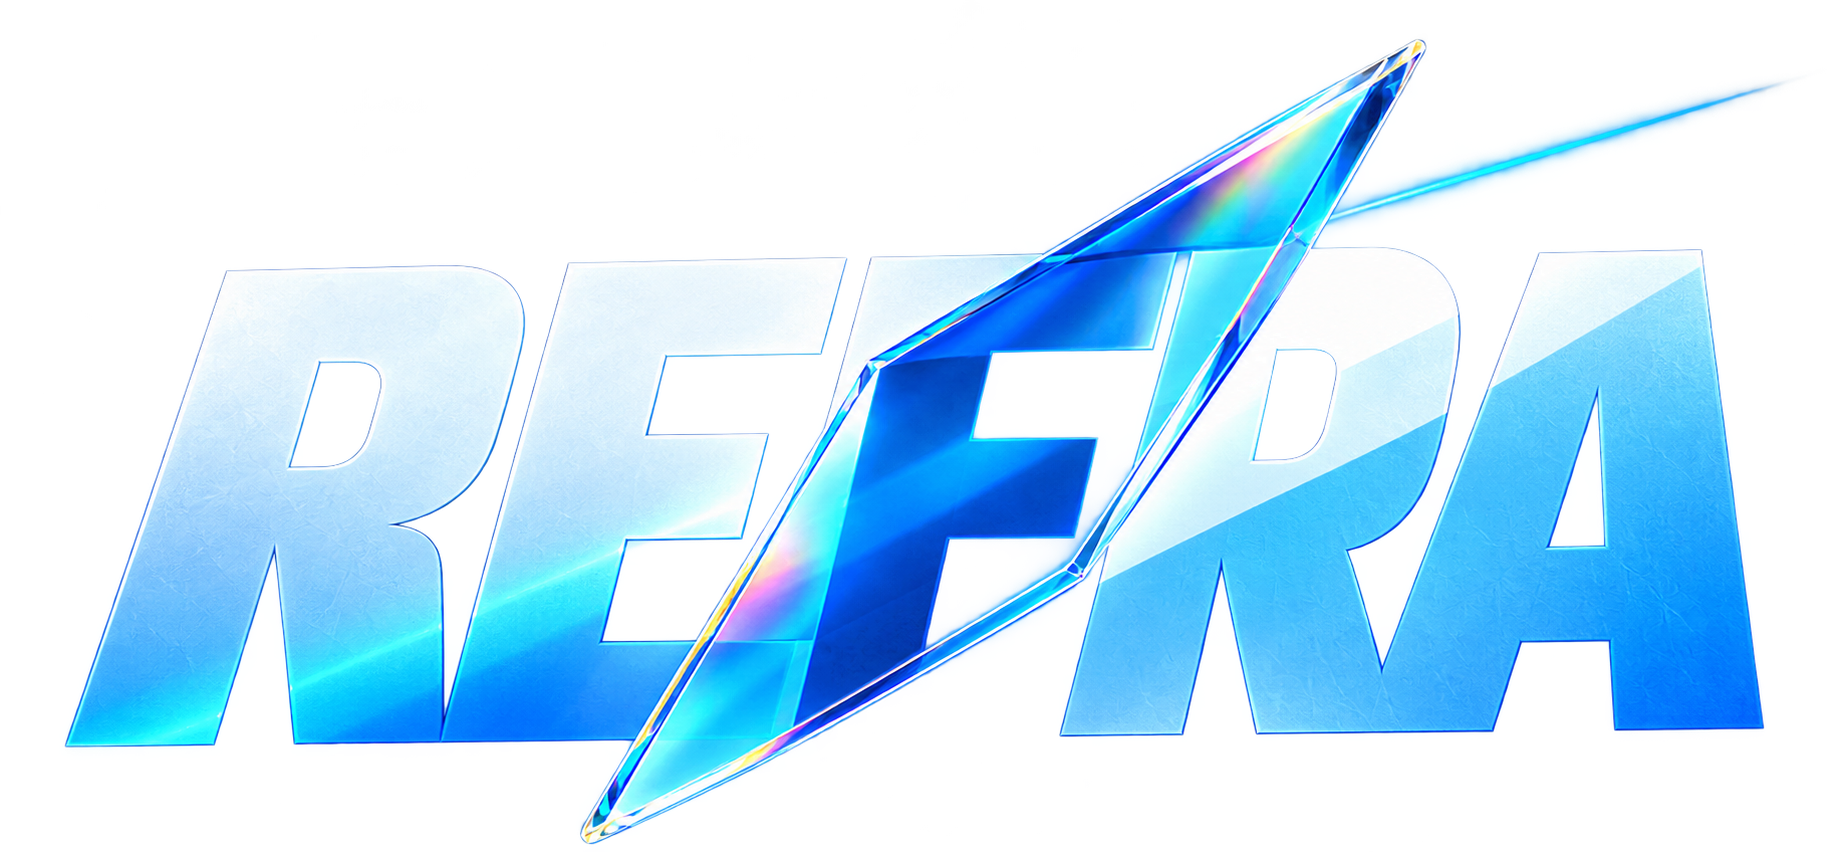
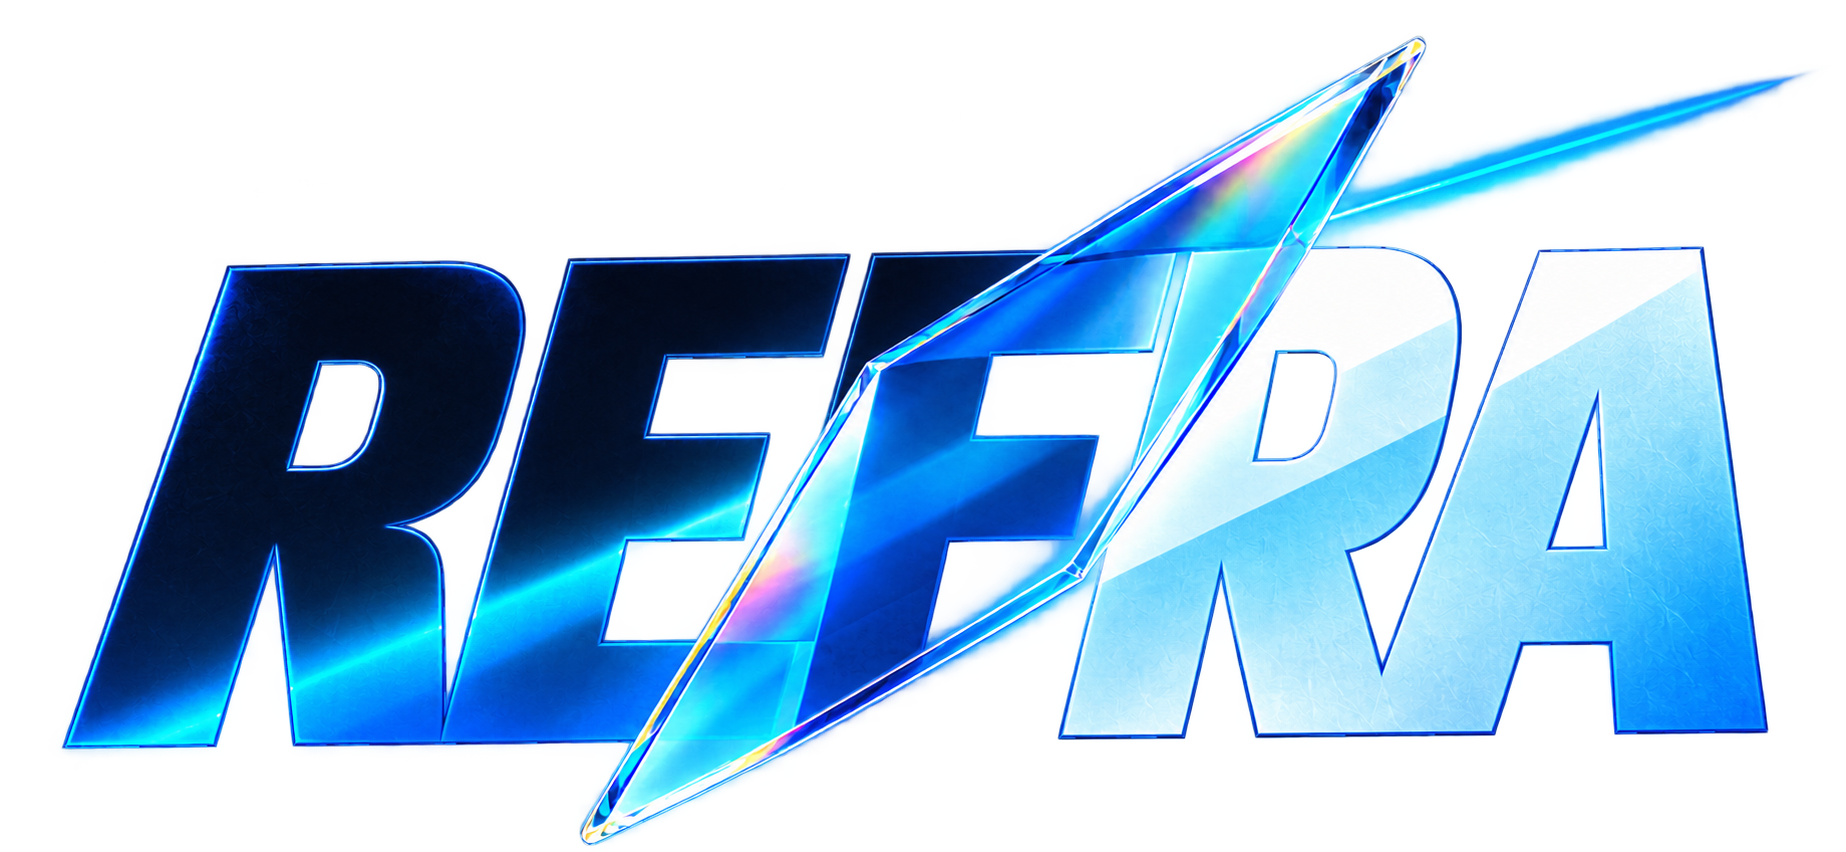
Use split dark and light lettering in the Refra home artwork

diff --git a/tests/test_release.py b/tests/test_release.py
@@ -130,6 +130,7 @@ def test_release_metadata_bundles_the_native_qml_workbench() -> None:
         "qml/*.qml",
         "qml/components/*.qml",
         "qml/pages/*.qml",
+        "qml/assets/*.png",
     } <= gui_data
     manifest = (PROJECT_ROOT / "MANIFEST.in").read_text(encoding="utf-8")
     assert "recursive-include src/game_screen_translator/gui/qml *.qml" in manifest
@@ -165,6 +166,10 @@ def test_built_archives_contain_the_exact_native_qml_workbench(
         path.relative_to(qml_root).as_posix()
         for path in qml_root.rglob("*.qml")
     }
+    expected_assets = {
+        path.relative_to(qml_root).as_posix()
+        for path in qml_root.rglob("*.png")
+    }
 
     with zipfile.ZipFile(wheels[0]) as archive:
         wheel_names = set(archive.namelist())
@@ -174,6 +179,15 @@ def test_built_archives_contain_the_exact_native_qml_workbench(
             if "game_screen_translator/gui/qml/" in name
             and name.endswith(".qml")
         }
+        wheel_asset_members = {
+            name.split("game_screen_translator/gui/qml/", 1)[1]: name
+            for name in wheel_names
+            if "game_screen_translator/gui/qml/" in name
+            and name.endswith(".png")
+        }
+        assert set(wheel_asset_members) == expected_assets
+        for relative, member in wheel_asset_members.items():
+            assert archive.read(member) == (qml_root / relative).read_bytes()
     with tarfile.open(source_archives[0], "r:gz") as archive:
         sdist_names = set(archive.getnames())
         sdist_qml = {
@@ -182,6 +196,17 @@ def test_built_archives_contain_the_exact_native_qml_workbench(
             if "game_screen_translator/gui/qml/" in name
             and name.endswith(".qml")
         }
+        sdist_asset_members = {
+            name.split("game_screen_translator/gui/qml/", 1)[1]: name
+            for name in sdist_names
+            if "game_screen_translator/gui/qml/" in name
+            and name.endswith(".png")
+        }
+        assert set(sdist_asset_members) == expected_assets
+        for relative, member in sdist_asset_members.items():
+            archived = archive.extractfile(member)
+            assert archived is not None
+            assert archived.read() == (qml_root / relative).read_bytes()
 
     assert wheel_qml == expected
     assert sdist_qml == expected

diff --git a/tests/test_qml_workbench.py b/tests/test_qml_workbench.py
@@ -28,7 +28,7 @@ from PySide6.QtCore import (
     Slot,
 )
 from PySide6.QtGui import QColor, QFont, QFontInfo, QFontMetricsF, QWheelEvent
-from PySide6.QtQml import QQmlApplicationEngine, QQmlProperty
+from PySide6.QtQml import QQmlApplicationEngine, QQmlExpression, QQmlProperty
 from PySide6.QtQuick import QQuickItem, QQuickWindow
 from PySide6.QtTest import QTest
 from PySide6.QtWidgets import QApplication, QDialog, QSystemTrayIcon
@@ -5290,6 +5290,12 @@ def test_nearly_fitting_pages_compact_spacing_before_requiring_scroll(
                 assert hero_image.property("source").toString().endswith(
                     "refra-hero-dark.png"
                 )
+                hero_image_ready = QQmlExpression(
+                    host._engine.rootContext(), hero_image, "Number(status) === 1"
+                )
+                ready = hero_image_ready.evaluate()
+                assert not hero_image_ready.hasError()
+                assert ready == (True, False)
                 assert _find_quick_item(window, "refraDarkProfileSummary").isVisible()
                 for index in range(7):
                     button = _find_quick_item(window, f"refraDarkNavigationButton{index}")
